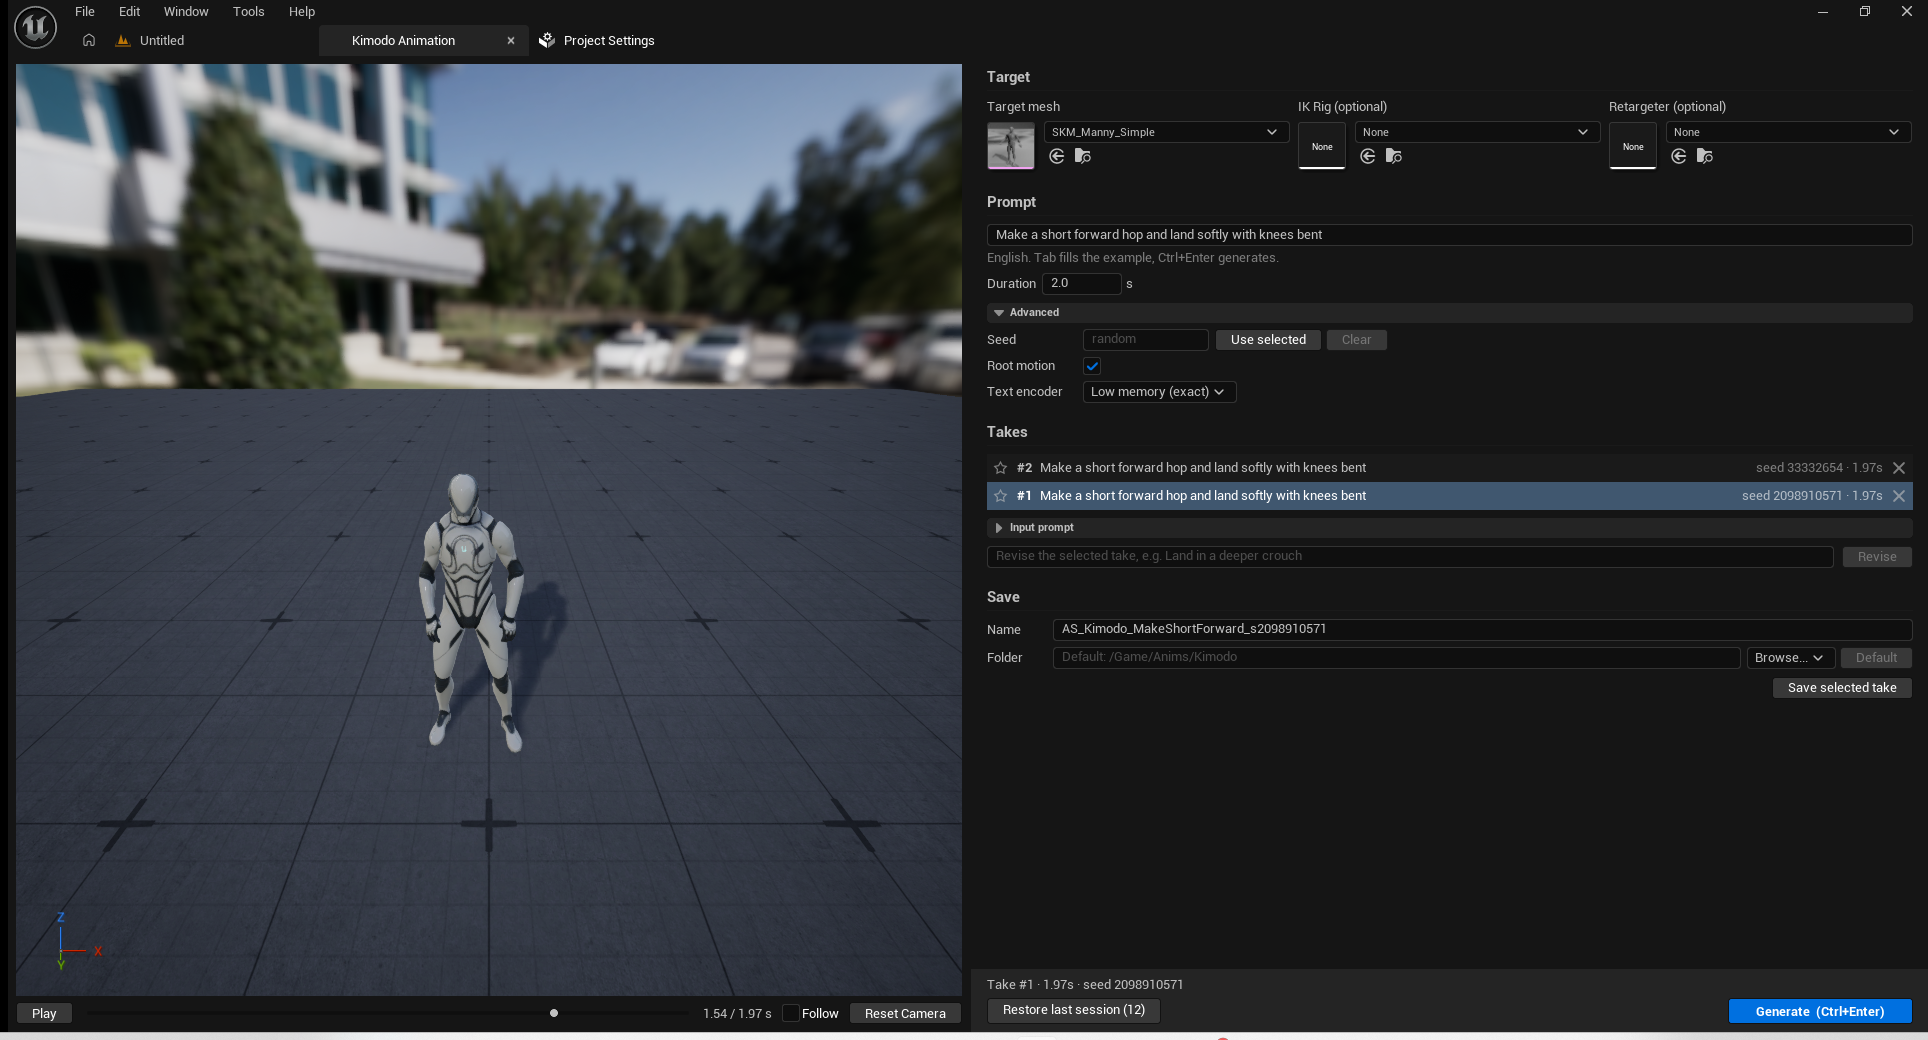
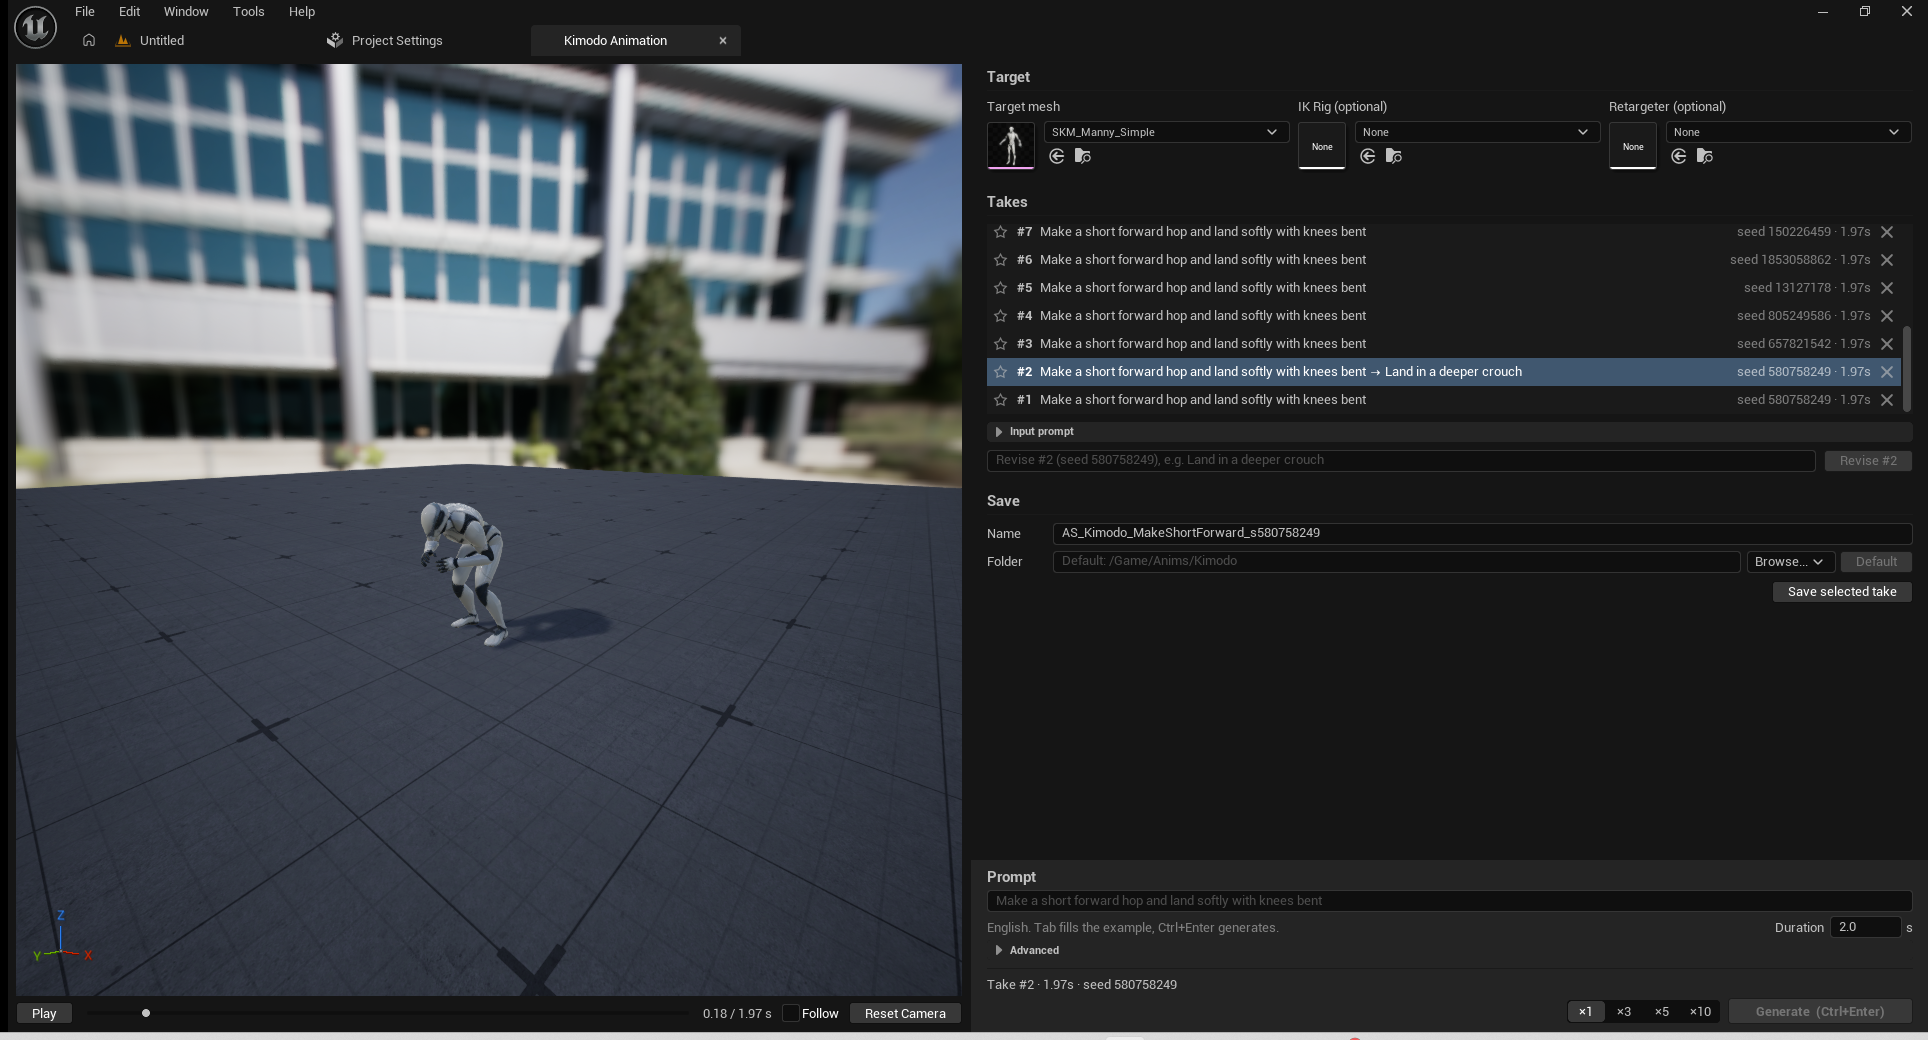
docs+ui: new README screenshots, panel polish
- README: screenshots for every panel section (target, prompt, xN batch,
  takes, revise, save, root motion, text encoder, install); text encoder table
  uses the menu names shown in the panel.
- Advanced expands and collapses instantly (the animated collapse showed Seed
  and Root motion outside the area).
- xN selector is hidden until Kimodo is installed, like the prompt input.
- Deleting a take updates the status line (no stale "Take #6 ..." after the
  list is empty).

diff --git a/Scripts/panel.py b/Scripts/panel.py
@@ -32,6 +32,8 @@ TEXT_ENCODER_DEVICES = ("stream", "stream-exact", "cpu", "cuda", "auto")
 MAX_BATCH = 10
 # 상주 Kimodo 워커를 이 시간(초) 동안 쓰지 않으면 내려 VRAM·RAM을 돌려준다.
 WORKER_IDLE_SECONDS = 600
+# 테이크가 없을 때 상태 줄 안내.
+IDLE_MESSAGE = "Choose a target mesh, then enter a motion prompt and duration."
 # 터미널 색상·커서 코드(ESC[...m 등)와 줄바꿈 외 제어 문자. Slate 글꼴에 글리프가 없어 매 프레임 경고가 난다.
 ANSI_ESCAPE = re.compile(r"\x1b\[[0-?]*[ -/]*[@-~]|\x1b[@-Z\\-_]")
 CONTROL_CHARS = re.compile(r"[\x00-\x09\x0b-\x1f\x7f]")
@@ -475,7 +477,7 @@ class Panel:
         self.interpretation = ""
         # Kimodo에 실제로 전달한 영어 프롬프트
         self.english_prompt = ""
-        self.message = "Choose a target mesh, then enter a motion prompt and duration."
+        self.message = IDLE_MESSAGE
         self.restored = False
         # 다시 가져와야 하는 직전 미리보기(glTF). 에디터 시작을 막지 않도록 버튼을 눌렀을 때만 복원한다.
         self.restorable = None
@@ -623,6 +625,14 @@ class Panel:
             fallback = max(loaded, key=lambda t: t["used"]) if loaded else None
             self.selected = fallback["id"] if fallback else None
             self.apply_selected()
+        # 지운 테이크의 안내(Take #6 · …)가 상태 줄에 남지 않도록, 지금 고른 테이크 기준으로 다시 쓴다.
+        current = self.selected_take()
+        if current is not None:
+            self.message = f"Take #{current['number']} · {current['duration']:.2f}s · seed {current['seed']}"
+        elif not self.takes:
+            self.message = IDLE_MESSAGE
+        else:
+            self.message = f"Removed take #{take['number']}"
 
     def select_take(self, take_id, config):
         take = self.find_take(take_id)

diff --git a/Source/KimodoAnimation/Private/KimodoAnimationModule.cpp b/Source/KimodoAnimation/Private/KimodoAnimationModule.cpp
@@ -512,6 +512,8 @@ private:
 				SNew(SExpandableArea)
 				.AreaTitle(LOCTEXT("Advanced", "Advanced"))
 				.InitiallyCollapsed(!GetDefault<UKimodoUserSettings>()->bAdvancedExpanded)
+				// 접는 애니메이션 동안 하위 항목(시드·루트 모션)이 잘리지 않고 비쳐 보여 어색하므로 바로 접고 편다.
+				.AllowAnimatedTransition(false)
 				.OnAreaExpansionChanged_Lambda([](bool bExpanded) {
 					UKimodoUserSettings* UserSettings = GetMutableDefault<UKimodoUserSettings>();
 					UserSettings->bAdvancedExpanded = bExpanded;
@@ -926,6 +928,8 @@ private:
 						SNew(SSegmentedControl<int32>)
 						.ToolTipText(LOCTEXT("BatchTip", "How many takes Generate makes from this prompt, one after another with different seeds.\nWith a seed entered, they use seed, seed+1, … Revise always makes one take."))
 						.IsEnabled_Lambda([this] { return !bBusy; })
+						// 설치 전에는 프롬프트 입력처럼 숨긴다(생성할 수 없으므로).
+						.Visibility_Lambda([this] { return !bNeedsInitialState && IsReady() ? EVisibility::Visible : EVisibility::Collapsed; })
 						.Value_Lambda([] { return GetBatchCount(); })
 						.OnValueChanged_Lambda([](int32 Value) {
 							UKimodoUserSettings* UserSettings = GetMutableDefault<UKimodoUserSettings>();

diff --git a/README.md b/README.md
@@ -5,7 +5,7 @@ NVIDIA의 모션 생성 모델 [Kimodo](https://github.com/nv-tlabs/kimodo)를 *
 
 버전 **1.0.0** · 변경 내역은 [CHANGELOG.md](CHANGELOG.md) · 라이선스 [MIT](LICENSE)
 
-![Kimodo Animation 패널: 왼쪽 미리보기, 오른쪽 Target · Prompt · Takes · Save](Resources/Readme/panel.png)
+![Kimodo Animation 패널: 왼쪽 미리보기, 오른쪽 위 Target · Takes · Save, 오른쪽 아래 Prompt와 Generate](Resources/Readme/panel.png)
 
 ```
 "Walk forward four steps"
@@ -97,6 +97,8 @@ Save → /Game/... 의 AnimSequence
 
 패널을 처음 열면 **Install Kimodo** 영역이 보입니다. Kimodo가 설치되어 있으면 이 영역은 숨겨집니다.
 
+![Kimodo 설치 전 패널: 안내, Llama 3 라이선스 링크, 토큰 입력칸과 Install Kimodo 버튼](Resources/Readme/install.png)
+
 1. Hugging Face에서 [Llama 3 8B Instruct 라이선스를 승인](https://huggingface.co/meta-llama/Meta-Llama-3-8B-Instruct)합니다(승인까지 시간이 걸릴 수 있음).
 2. [Hugging Face 설정 > Access Tokens](https://huggingface.co/settings/tokens)에서 **Read** 토큰을 만듭니다.
 3. 패널의 토큰 칸에 붙여 넣고 **Install Kimodo**를 누릅니다.
@@ -118,8 +120,6 @@ Save → /Game/... 의 AnimSequence
 ---
 
 ## 빠른 시작
-
-![처음 연 패널: 대상 메시를 고르고 프롬프트를 적은 뒤 Generate](Resources/Readme/panel-empty.png)
 
 1. **Target**에서 대상 스켈레탈 메시를 고릅니다(예: `SKM_Manny_Simple`). IK Rig와 Retargeter는 비워 두면 자동입니다.
 2. **Prompt**에 영어로 동작을 적습니다. 예: `Wave the right hand`, `Walk forward four steps`
@@ -184,12 +184,16 @@ Kimodo 공식 문서를 이 플러그인 기준으로 요약했습니다. 원문
 
 ### Target
 
+![Target: 대상 메시, IK Rig, Retargeter](Resources/Readme/target.png)
+
 - **Skeletal Mesh**(필수), **IK Rig**(선택), **Retargeter**(선택)를 썸네일과 함께 한 줄에 고릅니다.
 - IK Rig를 비우면 같은 스켈레톤의 IK Rig를 찾고, 없으면 UE 자동 캐릭터화로 만듭니다.
 - Retargeter를 지정하면 자동 체인 매핑 대신 그 에셋의 설정(루트 모션 포함)을 그대로 씁니다.
 - 마지막으로 고른 값은 다음에 패널을 열 때 유지됩니다.
 
 ### Prompt (오른쪽 아래)
+
+![Prompt 입력, Duration, 펼친 Advanced, ×N 선택과 Generate](Resources/Readme/prompt.png)
 
 - **동작 설명**(영어). 빈 칸에서 `Tab`을 누르면 예시 문장이 들어갑니다. 길게 쓰면 입력칸 안에서 스크롤됩니다.
   - 한국어로 쓰려면 [프롬프트 해석](#설정-항목)(InterpretAgents)을 설정해야 합니다. 설정이 없으면 영어만 받습니다.
@@ -198,12 +202,17 @@ Kimodo 공식 문서를 이 플러그인 기준으로 요약했습니다. 원문
   - 해석은 한 번만 하고, 두 번째부터는 임베딩 캐시와 메모리에 남은 모델을 써서 테이크당 약 4초(RTX 5060, 2초 클립 기준)가 걸립니다.
   - Seed를 비우면 테이크마다 무작위, 넣으면 `seed, seed+1, …`을 씁니다.
   - 진행 중에는 `Take 2/5`처럼 표시되고, Cancel하면 이미 만든 테이크는 남습니다. Revise는 항상 1개입니다.
+
+  ![×10 생성 중: 상태 줄에 Take 5/10, 만들어진 테이크가 위 목록에 차례로 쌓임](Resources/Readme/batch.png)
+
 - **Advanced**(기본은 접힘, 펼친 상태는 다음에 패널을 열 때도 유지):
   - **Seed**: 비우면 무작위. 숫자를 넣으면 같은 결과를 재현. `Use selected`는 고른 테이크의 시드를, `Clear`는 비우기
   - **Root motion**: [루트 모션](#루트-모션) 참고
   - **Text encoder**: [텍스트 인코더와 메모리](#텍스트-인코더와-메모리) 참고
 
 ### Takes
+
+![Takes 목록과 펼친 Input prompt, Revise 칸](Resources/Readme/takes.png)
 
 - 생성할 때마다 한 줄씩 쌓입니다(최대 **20개**). 각 줄: ☆ 별표, 번호, 프롬프트, 시드·길이, 저장 여부 ✓, ✕ 삭제
 - **클릭**: 미리보기 전환(바로 바뀜, 다시 리타게팅하지 않음)
@@ -213,7 +222,11 @@ Kimodo 공식 문서를 이 플러그인 기준으로 요약했습니다. 원문
 - **Revise**(수정 칸에서 `Enter`): 고른 테이크를 기준으로 “조금 더 높이 점프” 같은 수정 요청을 덧붙여 다시 생성. 시드는 유지됩니다.
   - 버튼(`Revise #7`)과 수정 칸 안내문(`Revise #7 (seed 1234), …`)에 기준 테이크가 표시됩니다. 테이크를 고르지 않았으면 수정 칸이 꺼져 있습니다.
 
+  ![#13을 기준으로 수정 요청 입력: Land in a deeper crouch → Revise #13](Resources/Readme/revise.png)
+
 ### Save
+
+![Save: 이름 자동 제안, 저장 폴더](Resources/Readme/save.png)
 
 - **Name**: 프롬프트와 시드로 자동 제안(`AS_Kimodo_WaveRightHand_s11`, 이미 있으면 `_2`). 직접 고치면 덮어쓰지 않습니다.
 - **Folder**: `Browse`로 콘텐츠 폴더 선택, `Default`는 프로젝트 설정의 출력 폴더. 마지막으로 저장한 폴더를 기억합니다.
@@ -241,7 +254,7 @@ Kimodo는 이동(앞으로 걷기, 점프해서 나아가기 등)을 모두 **pe
 | **끔**(기본) | root 고정, 이동은 pelvis에 남음 | 제자리 루프(걷기 사이클 등), 블렌드 스페이스 |
 | **켬** | pelvis의 수평 이동으로 root 이동을 만들고 바닥 높이에 붙임. 시퀀스의 `Enable Root Motion`도 켬 | 캐릭터를 실제로 이동시키는 동작(몽타주, 루트 모션 기반 이동) |
 
-![Root motion을 켠 테이크: 바닥에 루트 경로(노란 선, 시작 초록 + / 끝 빨강 +)가 그려짐](Resources/Readme/root-motion.png)
+![Root motion을 켜고 만든 테이크: Advanced의 Root motion 체크, 바닥에 루트 경로(노란 선, 시작 초록 + / 끝 빨강 +)](Resources/Readme/root-motion.png)
 
 - 켜고 만든 테이크는 상태 줄에 `· root motion`이 붙고, 미리보기에서 캐릭터가 이동하며 경로가 그려집니다.
 - 설정은 **새로 만드는 테이크**에 적용됩니다. 이미 만든 테이크는 바뀌지 않습니다.
@@ -267,13 +280,15 @@ Kimodo는 이동(앞으로 걷기, 점프해서 나아가기 등)을 모두 **pe
 Kimodo는 프롬프트를 **Llama 3 8B**(LLM2Vec) 텍스트 인코더로 4096차원 벡터로 바꿉니다. 모델 전체가 약 16 GB라, 그대로 올리면 일반 PC에서는 메모리가 부족합니다.
 이 플러그인은 기본으로 **층을 하나씩 디스크에서 읽어 계산하는 방식**을 씁니다.
 
-| Text encoder | 최대 RAM | 생성 1회 | 결과 |
+![Advanced > Text encoder 메뉴와 설명 툴팁](Resources/Readme/text-encoder.png)
+
+| Text encoder (패널 메뉴 이름) | 최대 RAM | 생성 1회 | 결과 |
 |---|---|---|---|
-| **Low memory (streaming)** (기본) | 약 2.6 GB | 약 42초 | 원래 방식 대비 관절 위치 평균 약 0.5 cm(최대 약 2 cm) 차이 |
+| **Low memory (fast)** (기본) | 약 2.6 GB | 약 42초 | 원래 방식 대비 관절 위치 평균 약 0.5 cm(최대 약 2 cm) 차이 |
 | **Low memory (exact)** | 약 2.8 GB | 약 40초 | 원래 CPU 방식과 비트 단위로 동일 |
-| CPU | 약 15.6 GB | 약 56초 | 기준 |
-| CUDA | VRAM 16 GB 이상 필요 | GPU에 따라 다름 | VRAM이 부족하면 매우 느려지거나 실패 |
-| Auto | CUDA를 쓸 수 있으면 GPU, 아니면 CPU | | VRAM 크기는 확인하지 않음 |
+| Full model on CPU | 약 15.6 GB | 약 56초 | 기준 |
+| Full model on GPU | VRAM 16 GB 이상 필요 | GPU에 따라 다름 | VRAM이 부족하면 매우 느려지거나 실패 |
+| Full model, GPU if available | CUDA를 쓸 수 있으면 GPU, 아니면 CPU | | VRAM 크기는 확인하지 않음 |
 
 측정: RTX 5060 8 GB, RAM 31 GB, NVMe SSD, 2초 클립 생성 전체 시간(프로세스 최대 메모리).
 
